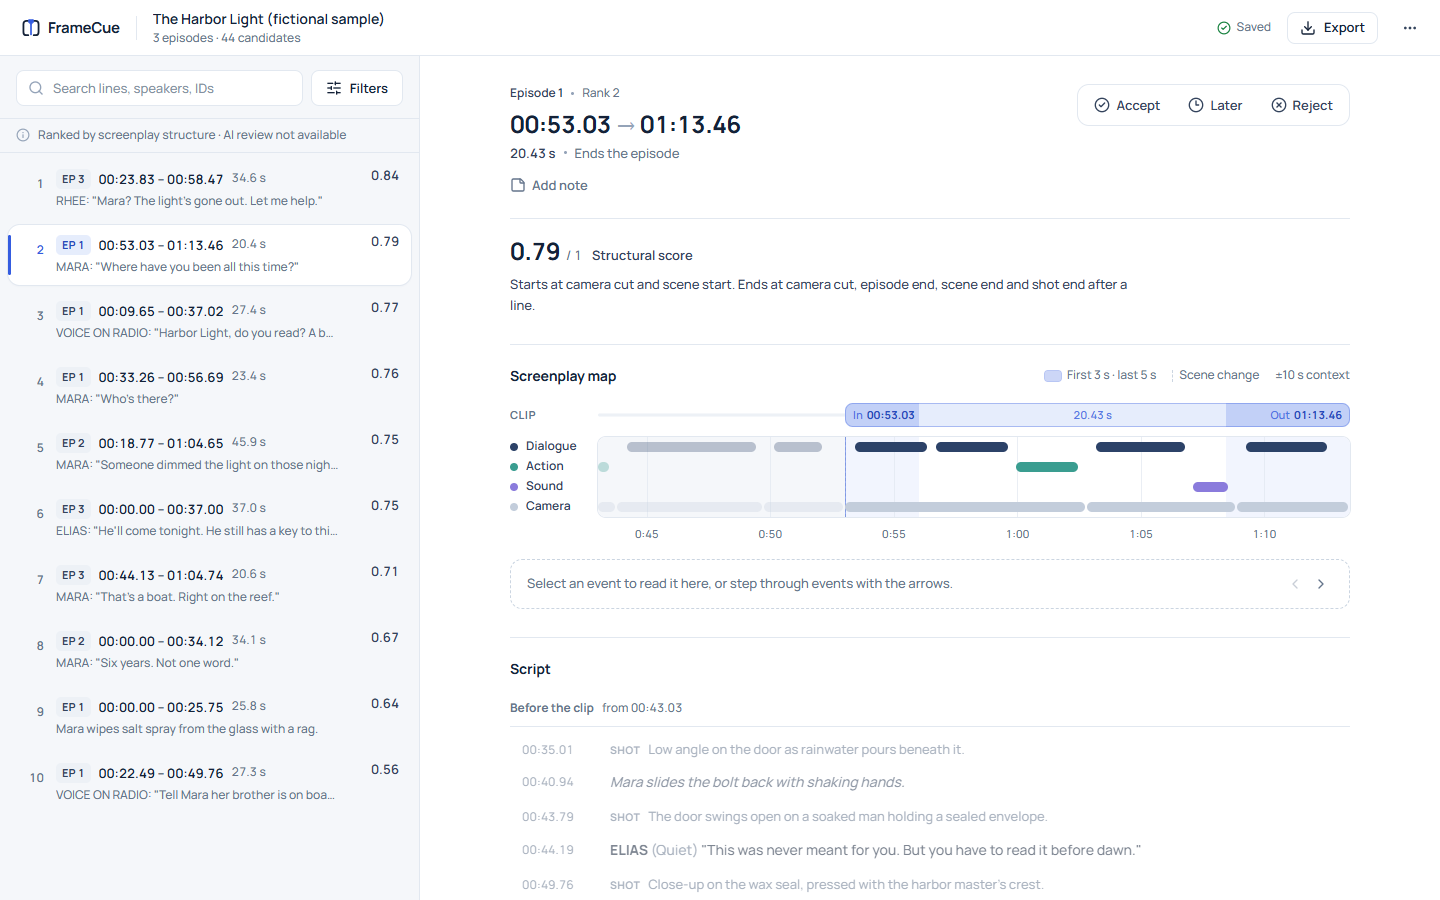
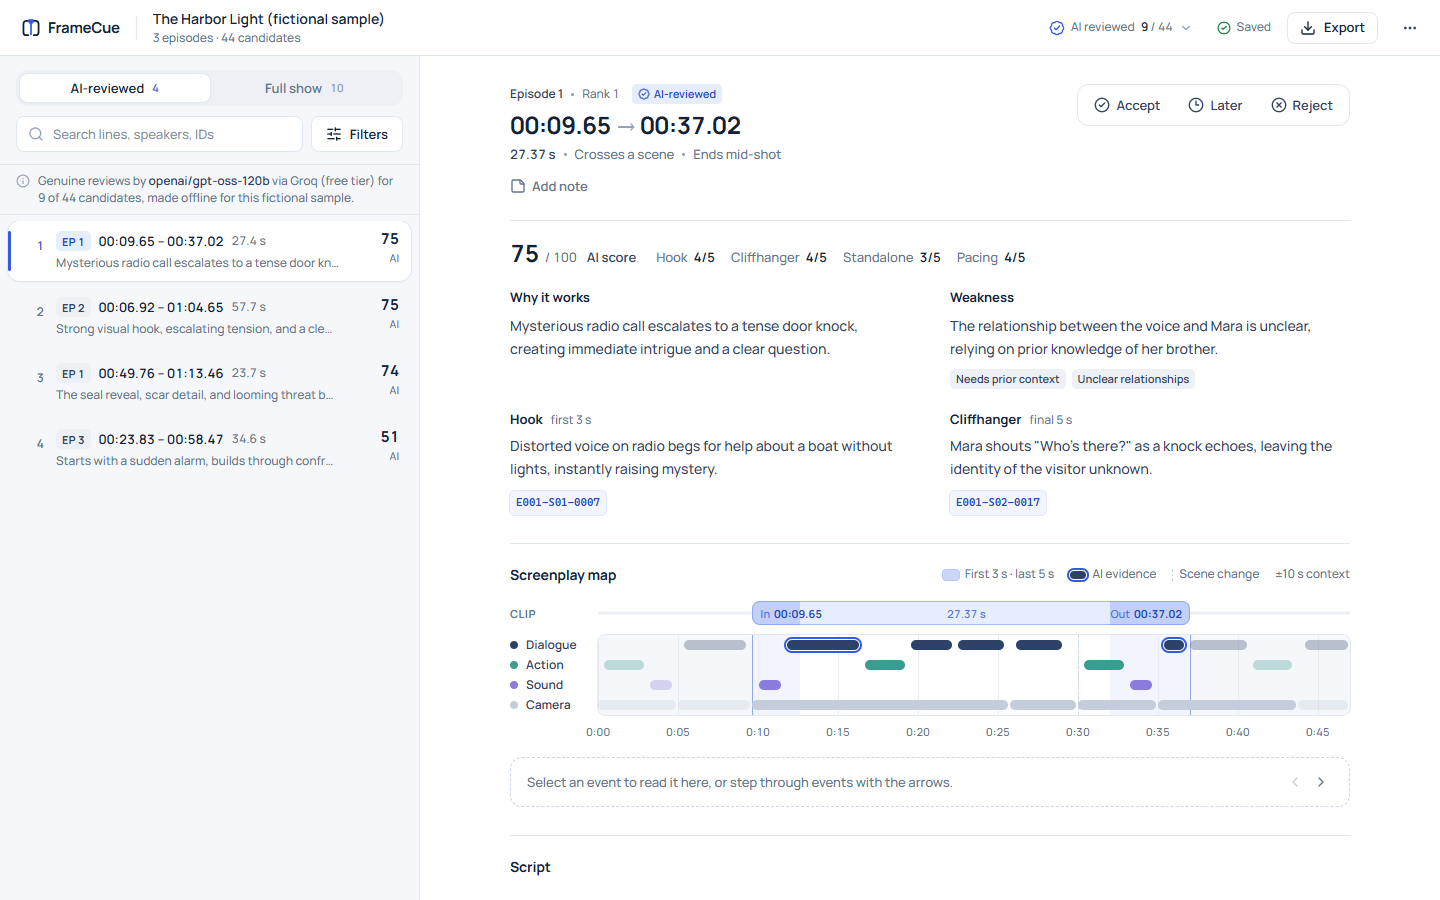
Publish genuine AI reviews for the fictional sample
Nine sample candidates (three per episode) reviewed live by
openai/gpt-oss-120b on the Groq free plan: 3 requests, 0 validation
failures, 13,063 tokens, no cost. The bundle holds only these entries, and
the server re-validates each one against the sample. The sample now opens on
the AI-reviewed view with a label naming the model and the coverage.

diff --git a/frontend/src/features/workspace/Chrome.tsx b/frontend/src/features/workspace/Chrome.tsx
@@ -467,11 +467,13 @@ export function SampleAiNote({ className }: { className?: string }) {
   const first = state.index ? Object.values(state.index.ai)[0] : undefined;
   const model = first?.model_reported ?? first?.model_requested ?? state.doc?.coverage.profile.model ?? "the model";
   const provider = first?.provider ?? state.doc?.coverage.profile.provider ?? "";
+  const cov = state.doc?.coverage;
   return (
     <span className={cn("block text-[12.5px] leading-relaxed text-muted", className)}>
       Genuine reviews by <span className="font-semibold text-ink-soft">{model}</span>
-      {provider ? ` via ${provider === "groq" ? "Groq (free tier)" : provider}` : ""}, generated offline for this fictional
-      sample. The site itself never calls a model.
+      {provider ? ` via ${provider === "groq" ? "Groq (free tier)" : provider}` : ""}
+      {cov ? ` for ${cov.ai_evaluated} of ${cov.total_candidates} candidates` : ""}, made offline for this
+      fictional sample.
     </span>
   );
 }

diff --git a/frontend/src/App.test.tsx b/frontend/src/App.test.tsx
@@ -77,7 +77,7 @@ describe("upload", () => {
     const sent = calls.find((c) => c.url === "/api/analyze")!.init!.body as FormData;
     expect((sent.get("ai_bundle") as File).name).toBe("harbor-light.ai-bundle.json");
     expect(screen.getByRole("tab", { name: /AI-reviewed/ })).toHaveAttribute("aria-selected", "true");
-    expect(screen.getByText(/Genuine reviews by/)).toHaveTextContent(/generated offline for this fictional sample/);
+    expect(screen.getByText(/Genuine reviews by/)).toHaveTextContent(/candidates, made offline for this fictional sample/);
   });
 });
 

diff --git a/frontend/e2e/workflow.spec.ts b/frontend/e2e/workflow.spec.ts
@@ -26,6 +26,9 @@ test.describe("desktop workflow", () => {
     await expect(page).toHaveURL(/\/review$/);
     await expect(page.getByRole("status")).toHaveText(/^\s*Saved$/);
 
+    // when the sample has published AI reviews, use the full show for the CSV checks below
+    const fullShow = page.getByRole("tab", { name: /Full show/ });
+    if (await fullShow.count()) await fullShow.click();
     const rows = page.getByRole("option");
     await expect(rows.first()).toBeVisible();
     await rows.nth(1).click();

diff --git a/README.md b/README.md
@@ -15,7 +15,7 @@ timestamps, ranks them, and gives an editor a workspace to review, annotate and 
 shortlist. It is meant for promo editors and marketing teams; the output is a starting point
 for editorial judgement, not a replacement for it.
 
-![FrameCue workspace with the fictional sample: ranked clips on the left, the selected clip's score, screenplay map and script on the right](docs/screenshot.png)
+![FrameCue workspace with the fictional sample: AI-reviewed clips on the left, the selected clip's AI score, judgement and screenplay map on the right](docs/screenshot.png)
 
 ## Features
 
@@ -118,8 +118,10 @@ cd frontend && npm run dev
 review is not available.
 
 **Try the sample.** Choose **Try the fictional sample**. It runs an invented three-episode
-story through the real API, together with any AI reviews published for it in
-`frontend/public/sample/`.
+story through the real API together with genuine AI reviews of 9 of its 44 candidates
+(`openai/gpt-oss-120b` on GroqCloud's free plan, made offline and published in
+`frontend/public/sample/`). The server re-validates them against the sample like any other
+uploaded bundle.
 
 **Add AI reviews.**
 
@@ -210,8 +212,8 @@ seconds from India.
 ## Limitations
 
 - **Partial AI coverage.** AI reviews exist only where the free quota allowed: 41 of the 788
-  candidates in the 50-episode assignment pack. The AI ranking is provisional, and the rest
-  are ranked by structure only.
+  candidates in the 50-episode assignment pack and 9 of the 44 in the fictional sample. The
+  AI ranking is provisional, and the rest are ranked by structure only.
 - **AI judgements are estimates.** Scores come from one model and were checked by rubric
   review, not by human labels or viewer data. Evidence IDs are validated; the wording of
   explanations is not.

diff --git a/docs/AI_LOG.md b/docs/AI_LOG.md
@@ -619,9 +619,12 @@ added the `framecue-app.vercel.app` domain; rewrote the README; checked commit a
 - **Optional bundle request.** Fetching the sample's AI bundle when none was published logged
   a 404 and failed two end-to-end tests. The page now reads an always-published
   `sample/manifest.json` and requests a bundle only when it is listed.
-- **Free quota.** The sample's genuine AI reviews were not generated during this pass: the
-  local ledger for the UTC day was already past its budget, and no reviews were invented or
-  reused from an older prompt version (16 older reviews exist but the server rejects them as
-  stale).
+- **Free quota.** The sample's AI reviews waited for the next UTC day: the local ledger was
+  past its budget, and nothing was invented or reused from an older prompt version (16 older
+  reviews exist but the server rejects them as stale). On 2026-11-11 at 00:05 UTC a live run
+  reviewed 9 sample candidates (3 per episode) with `openai/gpt-oss-120b` on the Groq free
+  plan: 3 requests, 0 retries, 0 validation failures, 13,063 tokens, no cost. The exported
+  bundle holds only those 9 entries, and a test re-validates every one against the sample
+  through the server before release.
 - **Status regex.** An end-to-end check expected "Saved" exactly; the element text has a
   leading space from its icon, so the check now allows it.

diff --git a/docs/PLAN.md b/docs/PLAN.md
@@ -1046,6 +1046,12 @@ When no bundle was supplied, the popover now says so.
 - **Backup:** "Back up all" exports every analysis with decisions and notes
   (`framecue-backup-v1`); Import adds the ones not already saved.
 
+**Fictional sample with genuine AI reviews.** `frontend/public/sample/harbor-light.ai-bundle.json`
+holds 9 real Groq reviews (`openai/gpt-oss-120b`, prompt `promo-eval-v3`), 3 per episode.
+`sample/manifest.json` names it, so the page requests it only when it is published. The
+server re-validates each entry like any uploaded bundle; the sample opens on the AI-reviewed
+view with a label naming the model and the coverage (9 of 44).
+
 **Icons.** The favicon reuses the logo paths and colours, cropped to the mark, with a light
 variant for dark tab bars. PNG icons (180, 192, 512) and a 16/32/48 px ICO are rendered from
 the same paths in Edge; `site.webmanifest` lists them.
